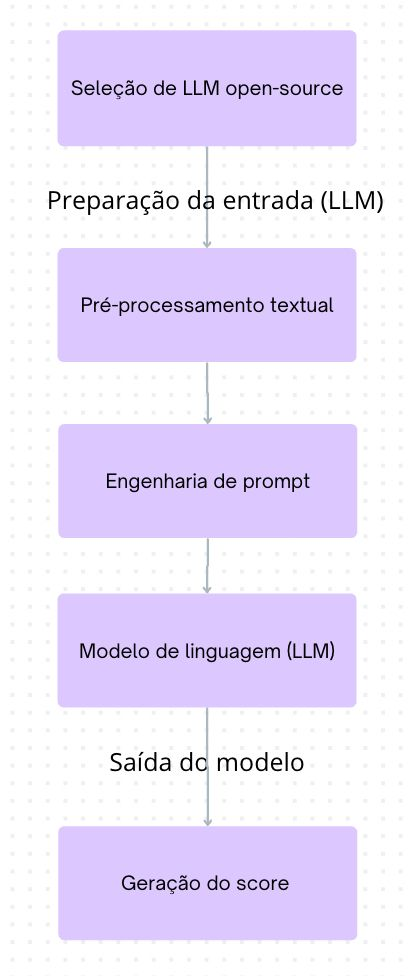
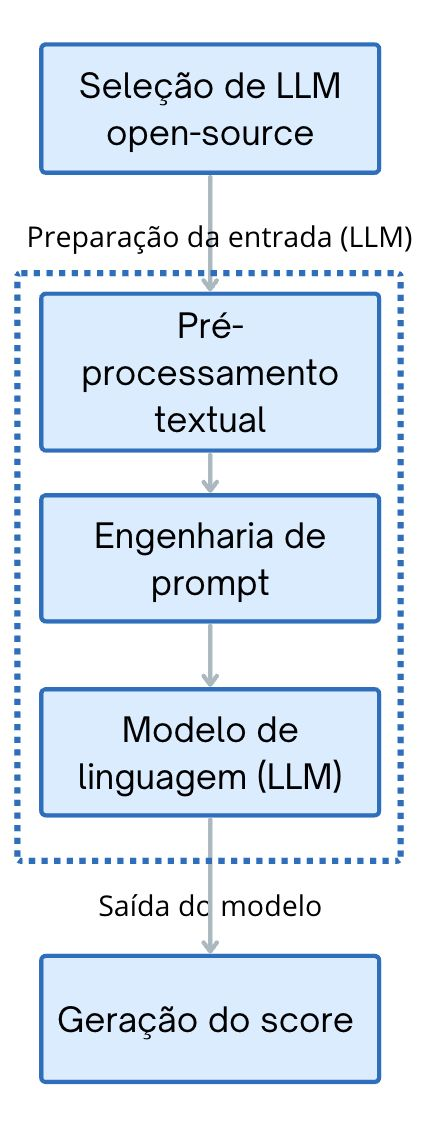
ajustes finos e melhoria conceitos metricas e tri após revisao do orientador

diff --git a/TCC1 - Entregas/entrega4 - metodologia completa/metodologia.tex b/TCC1 - Entregas/entrega4 - metodologia completa/metodologia.tex
@@ -14,7 +14,6 @@
 \usepackage[style=ieee, sorting=nty, language=portuguese]{biblatex}
 \definecolor{grayFEI}{HTML}{7F7F7F}
 \usepackage{paracol} % no preâmbulo
-\usepackage{titlesec}
 \usepackage{indentfirst}  % Indenta o primeiro parágrafo
 \usepackage[utf8]{inputenc}
 \usepackage{tikz}
@@ -103,7 +102,7 @@
 \renewcommand{\headrulewidth}{0.3pt} % ← ATIVA a linha (espessura ajustável)
 \setlength\headheight{1.2cm}
 \lhead{\includegraphics[width=4.97cm, height=1cm]{logoinova.png}}
-\rhead{\helvet{1º semestre/2025}}
+\rhead{\helvet{1º semestre/2026}}
 
 \fancyfoot{} % limpa rodapé
 \lfoot{
@@ -148,7 +147,7 @@
 
 }
 
-\resumo{O Exame Nacional do Ensino Médio (ENEM) destaca-se entre os exames de larga escala no Brasil por ser uma das principais portas de entrada para o ensino superior dessa forma, compreender como a estrutura da prova influencia o desempenho dos candidatos é fundamental tanto para orientar os estudos dos participantes quanto para fornecer subsídios a docentes na elaboração de avaliações mais equilibradas. Este trabalho investiga a correlação entre características estruturais das questões, ordem de apresentação das questões na prova, nível de formalismo, quantidade de palavras por enunciado, presença de imagens e gráficos, e construção dos distratores, e o desempenho dos candidatos nas edições do ENEM de 2020 a 2025, considerando o recorte geográfico do estado de São Paulo. Utilizaremos técnicas de estatística descritiva e inferencial, análise baseada na Teoria de Resposta ao Item (TRI), processamento de linguagem natural (LLMs) para estimativa de formalismo, e extração automatizada de elementos textuais e visuais. Com base nos padrões identificados, será desenvolvida uma interface que, a partir do upload de uma prova, analisa suas características estruturais e, utilizando as correlações observadas no ENEM, estima seu nível potencial de dificuldade. O sistema permite ao professor verificar, por exemplo, se o excesso de texto ou o baixo formalismo tende a tornar a prova mais difícil, auxiliando na decisão de ajustar ou não o formato da avaliação. Dessa forma, o estudo contribui com evidências sobre o impacto do formato na performance e oferece uma ferramenta prática para a melhoria de processos avaliativos.}
+\resumo{O Exame Nacional do Ensino Médio (ENEM) destaca-se entre os exames de larga escala no Brasil por ser uma das principais portas de entrada para o ensino superior dessa forma, compreender como a estrutura da prova influencia o desempenho dos candidatos é fundamental tanto para orientar os estudos dos participantes quanto para fornecer subsídios a docentes na elaboração de avaliações mais equilibradas. Este trabalho investiga a correlação entre características estruturais das questões como: ordem de apresentação das questões na prova; nível de formalismo; quantidade de palavras por enunciado; presença de imagens e gráficos; e construção dos distratores, e o desempenho dos candidatos nas edições do ENEM de 2020 a 2025, considerando o recorte geográfico do estado de São Paulo. Utilizaremos técnicas de estatística descritiva e inferencial, análise baseada na Teoria de Resposta ao Item (TRI), processamento de linguagem natural (PLN) para estimativa de formalismo, e extração automatizada de elementos textuais e visuais. Com base nos padrões identificados, será desenvolvida uma aplicação, a partir do upload de uma prova, analisa suas características estruturais e, utilizando as correlações observadas no ENEM, estima seu nível potencial de dificuldade. O sistema permite ao professor verificar, por exemplo, se o excesso de texto ou o baixo formalismo tende a tornar a prova mais difícil, auxiliando na decisão de ajustar ou não o formato da avaliação. Dessa forma, o estudo contribui com evidências sobre o impacto do formato na performance e oferece uma ferramenta prática para a melhoria de processos avaliativos.}
 
 \keyword{ENEM, formato da prova, correlação formato e desempnho, desempenho dos candidatos }
 
@@ -161,15 +160,17 @@ Exames padronizados são amplamente utilizados para avaliar habilidades e conhec
 
 No contexto brasileiro, o Exame Nacional do Ensino Médio (ENEM)\footnote{O ENEM é aplicada ao longo de 2 domingos. Ela contém 180 questões separadas em 4 categorias: Ciências Humanas e suas Tecnologias, Linguagens e suas Tecnologias, Matemática e suas Tecnologias e Ciência da Natureza e suas Tecnologias, além de uma redação.} se destaca como um dos principais mecanismos de avaliação educacional. A partir do ano de 2009, o exame se tornou um meio de ingresso ao ensino superior, por meio do Sistema de Seleção Unificada (Sisu), a prova foi alterada para conter 180 questões objetivas e uma redação \cite{Inep_2020}. Ademais, a pontuação obtida pelos candidatos também é utilizada como critério para a concessão de programas de acesso e permanência estudantil, como o ProUni e o FIES. Além disso, o exame também desempenha um papel na avaliação da qualidade do ensino médio no país.
 
-A nota do ENEM é definida por um sistema distinto da Teoria Clássica dos Testes (TCT), no qual a pontuação é baseada apenas no número de acertos do candidato \cite{sousa_teoria_2020}. No exame, utiliza-se a Teoria de Resposta ao Item (TRI), que considera parâmetros como a dificuldade, a discriminação e a probabilidade de acerto ao acaso para determinar a contribuição de cada questão na nota final \cite{inep2021enem}. Nesse modelo, diferentes itens possuem pesos distintos, tornando a pontuação do candidato sensível às características das questões que compõem a prova.
+A nota do ENEM é definida por um sistema distinto da Teoria Clássica dos Testes (TCT), no qual a pontuação é baseada apenas no número de acertos do candidato \cite{sousa_teoria_2020}. No exame, utiliza-se a Teoria de Resposta ao Item (TRI), que considera parâmetros como a dificuldade, a discriminação e a probabilidade de acerto ao acaso para determinar a contribuição de cada questão na nota final \cite{inep2021enem}. Nesse modelo, diferentes itens possuem pesos distintos, tornando a pontuação do candidato sensível às características das questões que compõem a prova. Uma descrição mais detalhada da TRI é apresentada na Seção \ref{sec:tri}.
+
+(LU E NUNO acham q fico bom a citacao  Uma descrição mais detalhada da tri é apresentada na Seção \ref{sec:tri}. ou acham mlhr nao ter? podem tira qqr coisa e dps apaguem esse comentario pf)
 
 Diante da amplitude de suas aplicações e do número expressivo de participantes, torna-se fundamental que o exame seja capaz de medir as habilidades dos candidatos, minimizando a influência de fatores que não estejam diretamente relacionados ao conhecimento avaliado.
 
 Porém, nem sempre é garantida a avaliação precisa das competências e habilidades de cada candidato. A forma como a informação é apresentada ao candidato é um fator influente do seu resultado. De acordo com estudos como \textcite{Pullishery2020,2018,silva2019desempenho}, o uso de textos longos aumenta o grau de dificuldade da questão. Além disso, a linguagem que é utilizada dentro do enunciado, como voz passiva ou ativa, também demonstrou impacto na performance geral \cite{correia2004complexidade,Marcom2016}. Entre outros aspectos, foram feitos estudos que demonstram a importância de características como a ordem na qual as questões são exibidas para os candidatos \cite{Barichello2022,Anaya2023} e o formato que os distratores são apresentados aos candidatos \cite{Marcom2016,lopes2015estudo,Caldwell2013}. Isso demonstra que a maneira como as informações são apresentadas ao candidato pode influenciar a avaliação de suas competências. Portanto, mostra-se a importância de análises dos itens que são inseridos nas provas. 
 
-Historicamente, estudos sobre a formatação da prova do ENEM são escassos, não recebendo a mesma atenção que outros fatores influentes, como o perfil socioeconômico dos candidatos, como revisado por \textcite{Dutra2023}. Ademais, as pesquisas relacionadas frequentemente possuem abordagens e motivações diferentes, analisando itens de provas específicas prioritariamente para revelar limitações do ensino básico nas escolas brasileiras \cite{Cestaro2020, lopes2015estudo}. Soma-se a isso o fato de que grande parte da literatura se baseia em edições antigas do exame, anteriores à reformulação do formato de aplicação ocorrida em 2017. Consequentemente, há uma carência de investigações atualizadas que isolem o impacto das características estruturais dos itens no desempenho dos alunos.
+Historicamente, estudos sobre a formatação da prova do ENEM são escassos, não recebendo a mesma atenção que outros fatores influentes, como o perfil socioeconômico dos candidatos, como revisado por \textcite{Dutra2023}. Ademais, as pesquisas relacionadas frequentemente possuem abordagens e motivações diferentes, analisando itens de provas específicas prioritariamente para revelar limitações do ensino básico nas escolas brasileiras \cite{Cestaro2020, lopes2015estudo}. Soma-se a isso o fato de que grande parte da literatura se baseia em edições antigas do exame, anteriores à reformulação do formato de aplicação ocorrida em 2017 NUNO ACHO QUE PRA ISSO SERIA BOM TER UMA REFERENCIA DE TIPO UNS 2 ARTIGO PELO MENOS ANTIGOS, PQ OS Q EU VI ERAM ATUAIS (gritando p fica mais visivel no texto, mas eh so minha opiniao). Consequentemente, há uma carência de investigações atualizadas que isolem o impacto das características estruturais dos itens no desempenho dos alunos.
 
-Diante dessa lacuna, este trabalho tem como objetivo analisar como características estruturais dos itens do ENEM,como extensão do enunciado, uso de elementos visuais, nível de formalidade, construção de distratores e ordem de apresentação das questões,influenciam o desempenho dos participantes, a fim de identificar padrões que contribuam para a compreensão do impacto do formato do exame na avaliação das competências dos candidatos.
+Diante dessa lacuna, este trabalho tem como objetivo analisar como características estruturais dos itens do ENEM, como extensão do enunciado, uso de elementos visuais, nível de formalidade, construção de distratores e ordem de apresentação das questões,influenciam o desempenho dos participantes, a fim de identificar padrões que contribuam para a compreensão do impacto do formato do exame na avaliação das competências dos candidatos.
  
   %------------------------------------------------------------------------------------------------------%
 \section{Trabalhos Relacionados}
@@ -241,6 +242,9 @@ Dessa forma, identifica-se como lacuna na literatura a necessidade de abordagens
 
 %-----------------------------------------------------------------------------------------------------%
 \section{Conceitos}
+Nesta seção serão apresentados os conceitos fundamentais utilizados no desenvolvimento deste trabalho, incluindo definições, princípios de funcionamento e aplicações das técnicas adotadas. Também serão discutidos os motivos que justificam a escolha dos métodos empregados, bem como suas contribuições para a análise proposta, permitindo estabelecer a base teórica necessária para a compreensão das etapas metodológicas descritas posteriormente.
+
+LU E NUNO: VER SE TA BOM COM BASE NOQ TA ESCRITO !!!!!!!!!!! E SE TIVER APAGAR ESSA LINHA 
 % CONCEITOS: como funcionama as coisas, pq escolhi, pq vou fazer de um jeito e nao de outro, conceitos ex oq eh wordbed, como funciona, o q eh berrt (modelo pronto de encoder) referencias.... -pq escolhemos esses -conceitos que nao explicamos (DEFINICAO EXPLICACAO DE CONCEITOS QUE UTILZIZAREMOS)%
 
 \subsection{Presença de gráficos}
@@ -263,57 +267,154 @@ dos objetos em uma única passagem pela rede neural convolucional
 \cite{redmon2016yolo}. Essa abordagem possibilita inferência em tempo
 real com bom equilíbrio entre precisão e eficiência computacional.
 
-
 \subsection{Análise comparativa do desempenho entre provas}
 
-\subsubsection{Metricas estatisticas descritivas e inferenciais}
+\subsubsection{Métricas estatísticas descritivas e inferenciais}
+
 \label{sec:metricas-descritivas-inferenciais}
-Para fundamentar a análise dos dados do ENEM, é necessário distinguir dois ramos complementares da estatística aplicada à pesquisa educacional: a estatística descritiva e a estatística inferencial. Conforme destacam \textcite{estatistica_descritiva_inferencial}, a estatística descritiva ocupa-se da organização, sumarização e descrição das principais características de um conjunto de dados observados, enquanto a estatística inferencial fornece procedimentos para a realização de generalizações sobre uma população com base em dados amostrais, reconhecendo que essas conclusões possuem um grau de incerteza.
+LU E NUNO: LER VERIFICANDO SE ALGO TA REPETITIVO / SE TUDO DAS FORMULAS FOI EXPLICADO (n consegui ver direito pq n consigo compilar o tcc)
+
+A seleção das métricas estatísticas adotadas neste trabalho foi definida a partir dos objetivos da pesquisa e com base em métodos amplamente empregados em estudos de análise de desempenho educacional e estatística aplicada \cite{estatistica_descritiva_inferencial,field2018discovering,cohen1988statistical}. A escolha das métricas considerou três necessidades principais do estudo: (i) descrever o comportamento dos dados analisados; (ii) comparar diferentes grupos de candidatos, considerando anos, áreas do conhecimento e versões de prova; e (iii) verificar se as diferenças observadas apresentam relevância estatística.
+
+Para atender a essas necessidades, foram adotadas métricas de estatística descritiva para caracterizar a distribuição das notas e identificar padrões nos dados, bem como métricas de estatística inferencial para avaliar diferenças estatísticas entre grupos analisados. Adicionalmente, foi incluída a medida de tamanho de efeito \textit{Cohen's d}, permitindo complementar a interpretação dos resultados por meio da análise da magnitude prática das diferenças observadas \cite{cohen1988statistical}.
 
 \paragraph{Estatística Descritiva}
 \mbox{}\\
-A estatística descritiva reúne técnicas utilizadas para organizar, resumir e representar as principais características de um conjunto de dados analisados. Entre as principais métricas descritivas, destacam-se:
+Considerando a necessidade de caracterizar diferentes aspectos das notas dos candidatos, incluindo tendência central, dispersão e distribuição do desempenho, foram consideradas as seguintes métricas:
 
 \begin{itemize}
-    \item \textbf{Medidas de posição (tendência central)}: incluem média aritmética, mediana, moda, quartis e percentis. A média representa o valor médio do conjunto de dados, sendo sensível a valores extremos, enquanto a mediana corresponde ao valor central da distribuição, apresentando maior robustez em distribuições assimétricas. Quartis e percentis permitem analisar a distribuição dos dados em diferentes faixas de desempenho.
 
-    \item \textbf{Medidas de dispersão}: incluem desvio padrão, variância e coeficiente de variação. O desvio padrão quantifica o grau de dispersão dos dados em relação à média, enquanto o coeficiente de variação expressa a variabilidade relativa dos dados, permitindo comparações entre grupos com médias distintas.
+\item \textbf{Média aritmética}: corresponde ao valor médio do conjunto de dados, sendo utilizada para representar o desempenho geral dos grupos analisados. Entretanto, por ser sensível à presença de valores extremos, sua utilização foi realizada em conjunto com a mediana, permitindo verificar se o valor médio representa adequadamente o comportamento das notas \cite{labone_estatistica}.
 
-    \item \textbf{Medidas de forma}: incluem assimetria (\textit{skewness}) e curtose (\textit{kurtosis}), utilizadas para caracterizar o comportamento da distribuição dos dados quanto ao grau de simetria e concentração.
+\begin{equation}
+\bar{x}=
+\frac{\sum_{i=1}^{n}x_i}{n}
+\end{equation}
+
+em que $\bar{x}$ representa a média aritmética, $x_i$ corresponde a cada observação do conjunto de dados e $n$ representa o número total de observações \cite{labone_estatistica}.
+
+\item \textbf{Mediana}: corresponde ao valor central dos dados ordenados, dividindo a distribuição em duas partes iguais. Sua utilização ocorreu como medida complementar à média, reduzindo possíveis distorções associadas à presença de valores extremos \cite{labone_estatistica}.
+
+\begin{equation}
+Md=
+\begin{cases}
+x_{\left(\frac{n+1}{2}\right)},
+& \text{se } n \text{ for ímpar}
+\\
+\\
+\frac{x_{\left(\frac{n}{2}\right)}
++x_{\left(\frac{n}{2}+1\right)}}{2},
+& \text{se } n \text{ for par}
+\end{cases}
+\end{equation}
+
+em que $n$ representa o número total de observações e $x$ corresponde aos valores ordenados do conjunto de dados \cite{labone_estatistica}.
+
+\item \textbf{Desvio padrão}: representa o grau de dispersão das observações em relação à média, indicando o quanto os valores tendem a se afastar do desempenho médio do grupo. Sua utilização ocorreu devido à necessidade de identificar diferenças na variabilidade das notas entre os grupos analisados \cite{labone_estatistica}.
+
+\begin{equation}
+s=
+\sqrt{
+\frac{
+\sum_{i=1}^{n}
+(x_i-\bar{x})^2
+}
+{n-1}
+}
+\end{equation}
+
+em que $s$ representa o desvio padrão, $x_i$ corresponde a cada observação, $\bar{x}$ representa a média do conjunto de dados e $n$ corresponde ao número total de observações \cite{labone_estatistica}.
+
+\item \textbf{Quartis e percentis}: correspondem a medidas que dividem a distribuição dos dados em partes ordenadas, permitindo identificar a posição relativa dos candidatos dentro do conjunto analisado. Sua utilização ocorreu devido à limitação das medidas centrais em representar toda a distribuição dos dados, permitindo analisar o comportamento de candidatos com diferentes níveis de desempenho \cite{labone_estatistica}.
+
+\begin{equation}
+P_k=
+\frac{k(n+1)}{100}
+\end{equation}
+
+em que $k$ representa o percentil desejado e $n$ corresponde ao número total de observações. A expressão determina a posição do percentil no conjunto ordenado de dados \cite{labone_estatistica}.
+
+\item \textbf{Coeficiente de variação}: corresponde a uma medida de dispersão relativa obtida pela relação entre o desvio padrão e a média. Sua utilização complementa a interpretação do desvio padrão, permitindo comparar a variabilidade entre grupos com médias distintas \cite{labone_estatistica}.
+
+\begin{equation}
+CV=
+\frac{s}{\bar{x}}
+\times100
+\end{equation}
+
+em que $s$ corresponde ao desvio padrão e $\bar{x}$ representa a média do conjunto analisado \cite{labone_estatistica}.
+
 \end{itemize}
-
-Essas métricas são amplamente empregadas em pesquisas educacionais para descrever o desempenho de participantes, avaliar a variabilidade dos resultados e identificar padrões de distribuição entre diferentes grupos analisados.
 
 \paragraph{Estatística Inferencial}
 \mbox{}\\
-A estatística inferencial permite analisar se diferenças observadas entre grupos apresentam significância estatística, possibilitando a realização de generalizações sobre a população analisada a partir de dados amostrais. Nesse contexto, destacam-se métodos e métricas como:
+
+A estatística inferencial permite avaliar se diferenças observadas entre grupos apresentam significância estatística. Considerando a necessidade de comparação entre múltiplos grupos e de avaliação da magnitude prática das diferenças observadas, foram consideradas as seguintes métricas \cite{field2018discovering,cohen1988statistical}:
 
 \begin{itemize}
-    \item \textbf{Testes de hipóteses}: procedimentos utilizados para verificar se diferenças observadas entre grupos podem ser atribuídas ao acaso amostral ou se apresentam significância estatística.
 
-    \item \textbf{Análise de Variância (ANOVA)}: técnica estatística utilizada para comparar médias entre três ou mais grupos, permitindo identificar diferenças estatisticamente significativas entre os conjuntos analisados.
+\item \textbf{Análise de Variância (ANOVA)}: utilizada para comparar simultaneamente médias entre múltiplos grupos, sendo adequada ao contexto deste estudo devido à necessidade de comparação entre diferentes anos, áreas do conhecimento e versões de prova. Sua utilização evita a realização de múltiplos testes independentes, reduzindo a probabilidade de erros estatísticos \cite{field2018discovering}.
 
-    \item \textbf{Intervalos de confiança}: faixas de valores dentro das quais se espera que um parâmetro populacional esteja contido com determinado nível de confiança, geralmente de 95\%.
+\begin{equation}
+F=
+\frac{MQ_{entre}}
+{MQ_{dentro}}
+\end{equation}
 
-    \item \textbf{Tamanho de efeito}: medida complementar aos testes de significância, utilizada para avaliar a magnitude prática das diferenças observadas. Dentre essas medidas, destaca-se o \textit{Cohen’s d}, frequentemente utilizado para classificar o efeito como pequeno, médio ou grande.
+em que $MQ_{entre}$ representa a média quadrática entre grupos e $MQ_{dentro}$ representa a média quadrática dentro dos grupos \cite{libretexts_anova}.
+
+\item \textbf{Tamanho de efeito (\textit{Cohen's d})}: corresponde a uma medida padronizada utilizada para avaliar a magnitude das diferenças observadas entre grupos comparados, complementando a análise de significância estatística. Sua escolha ocorreu devido à adequação ao contexto deste estudo, que utiliza grandes volumes de dados provenientes dos microdados do ENEM e realiza comparações entre diferentes grupos. Além disso, permite interpretar a magnitude das diferenças observadas de forma padronizada \cite{cohen1988statistical}.
+
+\begin{equation}
+d=
+\frac{\bar{x}_1-\bar{x}_2}
+{s_p}
+\end{equation}
+
+em que $\bar{x}_1$ e $\bar{x}_2$ representam as médias dos grupos comparados e $s_p$ corresponde ao desvio padrão combinado dos grupos analisados \cite{jim_cohensd}.
+
 \end{itemize}
+
+LU E NUNO: QUANDO TIVEREM LENDO, VERIFICAR SE FICA CLARO: 
+1-citacoes de referencias expicando as metricas bem como formulas (fico bom?acham q tem o bastante)
+
+2-fico claro pq usamos essas métricas e não outras? como chegamos ate elas exatamente ??? (apaguem isso dps q lerem)
 
 \subsection{Análise das variações estruturais entre provas} 
 \subsubsection{Modelo da Teoria de Resposta ao Item (TRI)}
 \label{sec:tri}
 
-O Exame Nacional do Ensino Médio (ENEM) utiliza a Teoria de Resposta ao Item (TRI) como modelo estatístico para estimar a proficiência dos participantes a partir do padrão de respostas apresentado nas provas objetivas \cite{inep2021enem}. Diferentemente de métodos baseados apenas na quantidade total de acertos, a TRI considera características individuais de cada questão, permitindo uma avaliação mais precisa do desempenho dos candidatos e maior comparabilidade entre diferentes versões de prova.
+O Exame Nacional do Ensino Médio (ENEM) utiliza a Teoria de Resposta ao Item (TRI) como modelo estatístico para estimar a proficiência dos participantes a partir das respostas apresentadas nas provas objetivas \cite{inep2021enem}. Diferentemente de métodos baseados apenas na quantidade total de acertos, a TRI considera características individuais de cada questão, permitindo uma avaliação mais precisa do desempenho dos candidatos e maior comparabilidade entre diferentes versões de prova.
 
-No modelo adotado pelo ENEM, a estimativa de proficiência é calculada com base na probabilidade de acerto de cada item, considerando tanto o desempenho do participante quanto parâmetros associados às questões. Entre esses parâmetros, destacam-se a dificuldade do item, relacionada ao nível de habilidade necessário para responder corretamente à questão, e o poder de discriminação, associado à capacidade da questão em diferenciar candidatos com diferentes níveis de proficiência \cite{inep2021enem}.
+No ENEM, a TRI é operacionalizada por meio do modelo logístico de três parâmetros (Three Parameter Logistic Model -- 3PL), no qual a probabilidade de acerto de um item é estimada em função da proficiência do participante e das características associadas à questão \cite{sousa_teoria_2020,inep2021enem}. Entre esses parâmetros destacam-se a discriminação do item, relacionada à capacidade da questão em diferenciar participantes com diferentes níveis de habilidade; a dificuldade, associada ao nível de proficiência necessário para responder corretamente à questão; e o parâmetro de acerto ao acaso, relacionado à probabilidade de o participante acertar uma questão por tentativa ou chute.
 
-Dessa forma, candidatos com a mesma quantidade de acertos podem obter notas distintas, uma vez que a TRI considera a coerência pedagógica do padrão de respostas. Espera-se, por exemplo, que participantes com maior proficiência apresentem maior probabilidade de acerto em questões classificadas como difíceis e menor probabilidade de erro em questões consideradas fáceis.
+Esse modelo é representado pela Equação \ref{eq:tri}:
 
-Além disso, a TRI permite estabelecer classificações fundamentadas no nível de dificuldade das questões, possibilitando a análise da distribuição desses itens ao longo das provas. Nesse contexto, cada questão pode ser associada a um nível estimado de proficiência necessário para que um participante apresente alta probabilidade de acerto. Dessa forma, a dificuldade dos itens deixa de ser interpretada apenas pela proporção de acertos observada, passando a considerar também o comportamento esperado de candidatos com diferentes níveis de habilidade. Essa abordagem possibilita compreender como questões consideradas fáceis, intermediárias ou difíceis podem estar organizadas ao longo do exame.
+\begin{equation}
+P(\theta)=c+(1-c)\frac{1}{1+e^{-a(\theta-b)}}
+\label{eq:tri}
+\end{equation}
 
-Adicionalmente, a utilização da TRI permite analisar a relação entre a taxa de acerto das questões e a proficiência estimada dos participantes. Enquanto a taxa de acerto representa empiricamente a proporção de candidatos que responderam corretamente a determinado item, a TRI interpreta esse desempenho considerando o nível de habilidade necessário para o acerto da questão. Assim, itens com menores taxas de acerto tendem a estar associados a níveis mais elevados de dificuldade, embora essa relação também dependa da coerência do padrão de respostas apresentado pelos candidatos. Dessa maneira, a análise conjunta entre taxa de acerto e parâmetros estimados pela TRI possibilita uma compreensão mais precisa do comportamento das questões e do desempenho dos participantes no ENEM.
+em que:
+
+\begin{itemize}
+\item $\theta$ representa a proficiência ou habilidade estimada do participante;
+\item $a$ corresponde ao parâmetro de discriminação do item;
+\item $b$ representa o parâmetro de dificuldade da questão;
+\item $c$ corresponde ao parâmetro de acerto ao acaso;
+\item $e$ representa a constante matemática associada à função exponencial.
+\end{itemize}
+
+A partir dessa formulação, a nota do participante não é calculada apenas pelo número total de acertos, mas pela combinação entre as respostas apresentadas e a probabilidade esperada de acerto para cada item. O processo consiste em estimar iterativamente o valor de proficiência ($\theta$) que melhor explica o conjunto de respostas do participante. Assim, padrões considerados mais coerentes, como o acerto de itens fáceis e intermediários acompanhado de maior frequência de acertos em itens difíceis, tendem a resultar em estimativas mais elevadas de proficiência. Em contrapartida, padrões inconsistentes, como o erro em itens considerados fáceis combinado ao acerto de itens difíceis, podem indicar respostas ao acaso, produzindo estimativas menores \cite{inep2021enem}.
+
+Como consequência, participantes com a mesma quantidade de acertos podem obter notas distintas. Espera-se, por exemplo, que candidatos com maior proficiência apresentem maior probabilidade de acerto em questões difíceis e menor probabilidade de erro em questões fáceis.
+
+Além disso, a TRI permite estabelecer classificações fundamentadas no nível de dificuldade das questões, possibilitando a análise da distribuição desses itens ao longo das provas. Nesse contexto, cada questão pode ser associada a uma faixa estimada de habilidade necessária para que um participante apresente alta probabilidade de acerto. Consequentemente, a dificuldade dos itens deixa de ser interpretada apenas pela frequência observada de respostas corretas, passando a considerar também o comportamento esperado de candidatos com diferentes níveis de habilidade. Essa abordagem possibilita compreender como questões consideradas fáceis, intermediárias ou difíceis podem estar organizadas ao longo do exame.
+
+Adicionalmente, a TRI permite analisar a relação entre a taxa de acerto das questões e a proficiência estimada dos participantes. Enquanto a taxa de acerto representa empiricamente a proporção de candidatos que responderam corretamente a determinado item, a TRI interpreta esse desempenho considerando as características da questão e o nível de habilidade requerido para seu acerto. Assim, itens com menores taxas de acerto tendem a estar associados a maiores níveis de dificuldade, embora essa relação também dependa da coerência das respostas apresentadas pelos participantes. A análise conjunta entre taxa de acerto e parâmetros estimados pela TRI possibilita uma compreensão mais precisa do comportamento das questões e do desempenho dos participantes no ENEM.
 
 \subsection{Comparação entre alternativas}
-\subsubsection{\textif{Word Embedding}}
+\subsubsection{\textit{Word Embedding}}
 Modelos de aprendizado de máquina não processam texto em linguagem natural diretamente, sendo necessária a conversão das palavras e sentenças em representações numéricas. Uma das abordagens mais utilizadas para essa finalidade é o uso de \textit{word embeddings}, técnica que representa palavras ou trechos de texto como vetores em um espaço multidimensional.
 
 Nessa representação vetorial, palavras ou sentenças semanticamente semelhantes tendem a ocupar posições próximas no espaço vetorial, enquanto elementos semanticamente distintos tendem a apresentar maior distância entre si. Dessa forma, os embeddings permitem que modelos computacionais capturem relações semânticas presentes no texto, indo além da simples comparação lexical.
@@ -339,23 +440,21 @@ Para cada prova, serão analisadas variáveis relacionadas à ordem das questõe
 
 Com base nas variáveis analisadas, busca-se determinar quais elementos estruturais da prova exercem impacto significativo no desempenho dos candidatos. Adicionalmente, a partir dos resultados obtidos na análise do ENEM, na parte de visualizacao analítica dos resultados obtidos, pretende-se ampliar a compreensão sobre como o formato de outras avaliações pode influenciar o desempenho de estudantes em diferentes contextos.
 
-Para a operacionalização dessa análise, a metodologia foi estruturada em quatro etapas principais, conforme ilustrado no fluxograma ~\ref{fig:fluxograma-estrutura-tcc}
+Para a operacionalização dessa análise, a metodologia foi estruturada em quatro etapas principais, conforme ilustrado na figura ~\ref{fig:fluxograma-estrutura-tcc}
 
 \begin{figure}[htb]
     \centering
-    \includegraphics[scale=0.46]{fluxograma.png}
+    \includegraphics[scale=0.26]{fluxograma.jpeg}
     \caption{Fluxograma de desenvolvimento do Trabalho de Conclusão de Curso}
-    \label{fig:fluxograma-estrutura-tcc}%LUUUU QUANDO FIZER FLUXOGRAMA EM LATEX MANTER ESSAS TAGS dos fluxogramas
+    \label{fig:fluxograma-estrutura-tcc}
 \end{figure}
-
-
 \subsection{Procedimentos de extração e análise dos dados}
 \label{procedimento-extracao-analise-dados}
 Nesta etapa, são descritos os procedimentos de extração dos dados das provas do ENEM, os quais serão utilizados na análise de correlação entre o formato das questões e o desempenho dos candidatos.
 
 \subsubsection{Análise da posição das questões nas provas} 
 
-Será conduzida uma análise sobre o impacto da ordem das questões no desempenho dos candidatos, utilizando o fluxograma ~\ref{fig:fluxograma-posicao-questoes} para estruturar as fases necessárias da análise.
+Será conduzida uma análise sobre o impacto da ordem das questões no desempenho dos candidatos, utilizando os passos descritos na figura ~\ref{fig:fluxograma-posicao-questoes} para estruturar as fases necessárias da análise.
 
 \begin{figure}[htb]
     \centering
@@ -380,18 +479,19 @@ Adicionalmente, aplicaremos a variável \texttt{TP\_COR\_PROVA\_*}, que permite 
 
 \paragraph{Análise comparativa do desempenho entre provas}
 \mbox{}\\
-Inicialmente, serão utilizadas métricas descritivas
-~\ref{sec:metricas-descritivas-inferenciais}, como média, mediana, desvio padrão, quartis, percentis e coeficiente de variação, permitindo a avaliação das variações de desempenho entre diferentes versões de prova, anos e áreas de conhecimento.
+Inicialmente, serão utilizadas métricas descritivas, conforme são descritas na seção de conceitos, no tópico ~\ref{sec:metricas-descritivas-inferenciais}, como média, mediana, desvio padrão, quartis, percentis e coeficiente de variação, permitindo a avaliação das variações de desempenho entre diferentes versões de prova, anos e áreas de conhecimento.
 
-A média será empregada para realizar comparações iniciais de desempenho entre os diferentes grupos analisados, enquanto o desvio padrão permitirá avaliar o grau de dispersão das notas, possibilitando identificar situações em que versões de prova apresentem médias semelhantes, mas níveis distintos de variabilidade no desempenho dos candidatos.
+A média será empregada para realizar comparações iniciais de desempenho entre os diferentes grupos analisados, enquanto o desvio padrão, empregado devido à necessidade de avaliar a variabilidade das notas em relação ao desempenho médio, permitirá identificar situações em que versões de prova apresentem médias semelhantes, mas níveis distintos de dispersão no desempenho dos candidatos.
 
-Adicionalmente, será utilizada a mediana, considerando que as distribuições de notas do ENEM podem apresentar valores extremos, permitindo uma representação mais robusta do desempenho central dos participantes e possibilitando verificar se a média representa adequadamente os dados analisados.
+Adicionalmente, será utilizada a mediana, considerando que as distribuições de notas do ENEM podem apresentar valores extremos, permitindo uma representação mais robusta do desempenho central dos participantes e possibilitando verificar se a média representa adequadamente os dados analisados. A utilização conjunta dessas métricas busca evitar interpretações baseadas exclusivamente na média, a qual pode ser influenciada pela presença de valores extremos.
 
-Os quartis e percentis serão utilizados para analisar a distribuição do desempenho entre diferentes grupos de candidatos, permitindo observar o comportamento de participantes com baixa, média e alta proficiência em diferentes versões de prova e áreas do conhecimento.
+Os quartis e percentis serão utilizados para analisar a distribuição do desempenho entre diferentes grupos de candidatos, considerando que medidas centrais isoladas não permitem representar adequadamente a distribuição completa dos dados. Dessa forma, será possível observar o comportamento de participantes com baixa, média e alta proficiência em diferentes versões de prova e áreas do conhecimento.
 
-Além disso, será empregado o coeficiente de variação, o qual possibilita comparar a dispersão relativa das notas entre grupos com médias distintas, permitindo identificar versões de prova ou áreas de conhecimento com maior inconsistência ou variabilidade proporcional no desempenho dos candidatos.
+Além disso, será empregado o coeficiente de variação, uma vez que o desvio padrão representa uma medida absoluta de dispersão e pode dificultar comparações entre grupos com médias distintas. Assim, o coeficiente de variação permitirá comparar a dispersão relativa das notas entre grupos, possibilitando identificar versões de prova ou áreas de conhecimento com maior inconsistência ou variabilidade proporcional no desempenho dos candidatos.
 
-No âmbito inferencial ~\ref{sec:metricas-descritivas-inferenciais}, será aplicada a Análise de Variância (ANOVA), com o objetivo de verificar se as diferenças observadas entre as médias dos grupos analisados apresentam significância estatística. Adicionalmente, será utilizada a medida de tamanho de efeito de Cohen (\textit{Cohen’s d}), permitindo avaliar a magnitude das diferenças identificadas entre os grupos comparados.
+Por sua vez, as métricas inferenciais aplicadas, conforme descritas na Seção~\ref{sec:metricas-descritivas-inferenciais}, serão a Análise de Variância (ANOVA) e a medida de tamanho de efeito \textit{Cohen's d}. A ANOVA foi selecionada devido à necessidade de comparação simultânea entre múltiplos grupos, incluindo diferentes anos, áreas do conhecimento e versões de prova. Sua utilização evita a realização de diversos testes independentes, o que poderia aumentar a probabilidade de erros estatísticos.
+
+Adicionalmente, será utilizada a medida de tamanho de efeito \textit{Cohen's d}, devido à sua adequação ao contexto deste estudo, que utiliza grandes volumes de dados provenientes dos microdados do ENEM e realiza comparações entre diferentes grupos. Sua utilização permitirá avaliar a magnitude das diferenças observadas de forma padronizada, complementando a interpretação da significância estatística dos resultados.
 
 Essas comparações serão realizadas entre diferentes versões de prova dentro do mesmo ano, bem como entre áreas de conhecimento pertencentes ao mesmo ano e versão de prova.
 
@@ -425,7 +525,7 @@ Para isso, foi desenvolvido um modelo de visão computacional capaz de
 classificar imagens como gráfico ou não gráfico.
 
 Devido à inexistência de um conjunto de dados específico para o contexto
-educacional analisado, foi construído um textit{dataset} próprio. O conjunto de treinamento foi composto por aproximadamente 2.000 imagens, sendo cerca
+educacional analisado, foi construído um \textit{dataset}próprio. O conjunto de treinamento foi composto por aproximadamente 2.000 imagens, sendo cerca
 de 1.000 imagens de gráficos provenientes do dataset \textit{ChartGalaxy} \cite{li2025chartgalaxy} e 1.000 imagens da classe não gráfico obtidas do conjunto COCO 2017 \cite{coco_dataset}, utilizado sem filtragem temática a fim de representar a diversidade de imagens presentes em avaliações educacionais. Para validação, foram utilizadas imagens extraídas das provas do ENEM entre 2020 e 2024, totalizando 323 imagens, das quais 49 foram classificadas como gráficos e 274 como não gráficos. Após o treinamento, o modelo foi aplicado a imagens provenientes de diferentes exames educacionais, permitindo a identificação automática da presença de gráficos, variável posteriormente utilizada nas análises estatísticas do estudo.
 
 \begin{figure}[htbp]
@@ -491,8 +591,6 @@ A partir desses parâmetros, o programa previamente desenvolvido será adaptado 
 \label{avaliacao-impacto-variaveis}
 Esta subseção corresponde à etapa final da pesquisa, na qual são consolidadas as análises das variáveis estruturais previamente investigadas.
 
-\subsubsection{Análise do impacto de variáveis estruturais das questões no desempenho dos candidatos no ENEM}
-\label{analise-impacto-variaveis}
 Para analisar o impacto das variáveis estruturais será calculado a taxa de acerto de cada questão com base na proporção de candidatos que responderam corretamente a cada item em relação ao total de participantes considerados, sendo utilizada como uma medida empírica de dificuldade das questões.
 
 Para isso, serão utilizadas variáveis provenientes dos microdados do ENEM, incluindo as respostas dos candidatos (\texttt{TX\_RESPOSTAS\_*}) e os respectivos gabaritos oficiais (\texttt{TX\_GABARITO\_*}), possibilitando a identificação de acertos por questão. As respostas serão previamente submetidas a um processo de limpeza, no qual serão desconsideradas aquelas em branco, anuladas ou com marcações inválidas, de forma que apenas respostas válidas (alternativas A a E) sejam utilizadas na análise.
@@ -501,7 +599,7 @@ Além disso, serão empregadas variáveis de filtragem, como \texttt{NU\_ANO} e 
 
 A partir dessa estimativa, os resultados obtidos serão comparados com as variáveis estruturais descritas anteriormente nesta seção. O objetivo dessa análise é investigar a existência de associações entre tais fatores e o desempenho dos candidatos.
 
-As taxas de acerto por questão também serão analisadas em conjunto com as notas baseadas na Teoria de Resposta ao Item (TRI) (~\ref{sec:tri}), permitindo uma análise complementar entre o desempenho observado dos candidatos e a proficiência estimada dos participantes.
+As taxas de acerto por questão também serão analisadas em conjunto com as notas baseadas na Teoria de Resposta ao Item (TRI), conforme descrito na seção de conceitos no tópico (~\ref{sec:tri}), permitindo uma análise complementar entre o desempenho observado dos candidatos e a proficiência estimada dos participantes.
 
 Ressalta-se que as variáveis estruturais não serão interpretadas como determinantes diretas da dificuldade, mas como fatores potencialmente associados ao desempenho. Nesse sentido, serão aplicadas métricas estatísticas de correlação para avaliar a intensidade dessas associações, sendo a escolha do coeficiente mais adequado (como Pearson ou Spearman) definida com base nas características dos dados analisados, considerando aspectos como distribuição, presença de outliers e natureza das variáveis.
 
@@ -513,7 +611,7 @@ A etapa de visualização dos dados corresponde ao desenvolvimento de um Minimum
 
 Para seu desenvolvimento, serão utilizados os programas criados para a análise do formato do ENEM, discutidos nas seções ~\ref{procedimento-extracao-analise-dados} e ~\ref{avaliacao-impacto-variaveis}. Esses programas poderão sofrer adaptações conforme a identificação de novas necessidades ao longo do processo, como a melhoria dos métodos de detecção de questões, de modo a permitir o reconhecimento de diferentes representações e padrões estruturais.
 
-O fluxograma ~\ref{fig:fluxograma-mvp} apresenta o funcionamento do MVP, destacando a relação entre as entradas, as etapas de processamento e a geração dos resultados.
+A figura ~\ref{fig:fluxograma-mvp} mostra um fluxograma que apresenta o funcionamento do MVP, destacando a relação entre as entradas, as etapas de processamento e a geração dos resultados.
 
 \begin{figure}[htb]
     \centering
@@ -523,8 +621,10 @@ O fluxograma ~\ref{fig:fluxograma-mvp} apresenta o funcionamento do MVP, destaca
 \end{figure}
 Para a obtenção desses resultados, serão utilizadas as mesmas variáveis estruturais empregadas na análise do ENEM, agora aplicadas à prova fornecida como entrada no sistema.
 
-\paragraph{Resultados gerados}
+\paragraph{Resultados esperados}
 \mbox{}\\ 
+Nesta seção são apresentados os resultados esperados a partir do desenvolvimento e da aplicação do MVP proposto. Busca-se demonstrar as informações e análises que serão geradas pelo sistema, evidenciando como os dados extraídos e processados poderão contribuir para a interpretação de características estruturais das avaliações e sua possível relação com o desempenho dos participantes.
+
 \subparagraph{Visualizações gráficas}
 \mbox{}\\
 A saída gráfica do MVP será composta pela visualização de métricas relacionadas à prova analisada. Serão utilizados gráficos de pizza para representar a proporção de questões com imagens e gráficos, bem como a distribuição estimada entre o tempo de leitura e resolução da prova. O nível de formalismo das questões será apresentado por meio de gráfico de colunas. Além disso, serão exibidos indicadores relacionados aos padrões de distratores presentes nas alternativas.
@@ -532,7 +632,7 @@ A saída gráfica do MVP será composta pela visualização de métricas relacio
 
 \subparagraph{Análise de correlação entre variáveis estruturais e desempenho}
 \mbox{}\\
-Com base na análise realizada na seção  ~\ref{analise-impacto-variaveis}, serão identificadas associações estatísticas entre características estruturais da prova e o desempenho dos candidatos no ENEM.
+Com base na análise realizada na seção  ~\ref{avaliacao-impacto-variaveis}, serão identificadas associações estatísticas entre características estruturais da prova e o desempenho dos candidatos no ENEM.
 
 A partir desses resultados, o MVP utilizará as mesmas variáveis estruturais extraídas de uma prova fornecida como entrada, para estimar o nível potencial de dificuldade da avaliação.
 
@@ -636,11 +736,6 @@ Como etapa futura, pretende-se expandir o \textit{dataset}, adicionando
 novas imagens ao conjunto de treinamento, visando melhorar a capacidade
 de generalização do modelo, bem como enriquecer o conjunto de validação
 com casos mais representativos das condições reais de aplicação.
-
-%falar/mostrar oq fizemos, o q ja ta implementado!!!!!!!!!!!%
-
-%DPS Q LU TERMINA PARTE DELA FAZE PRINT DE COMO TA SAÍDA DO MVP %
-
 \section{Cronograma}
 O cronograma deste trabalho está representado na tabela ~\ref{tab:cronograma}
 \begin{table*}[htb]
@@ -669,7 +764,7 @@ Desenvolvimento análise ENEM e MVP                 &   &   &   & X & X & X & X 
 \caption{Cronograma de atividades do projeto}
 \label{tab:cronograma}
 \end{table*}
+
 \section{Referências}
 \printbibliography[heading=none]
-
 \end{document}
